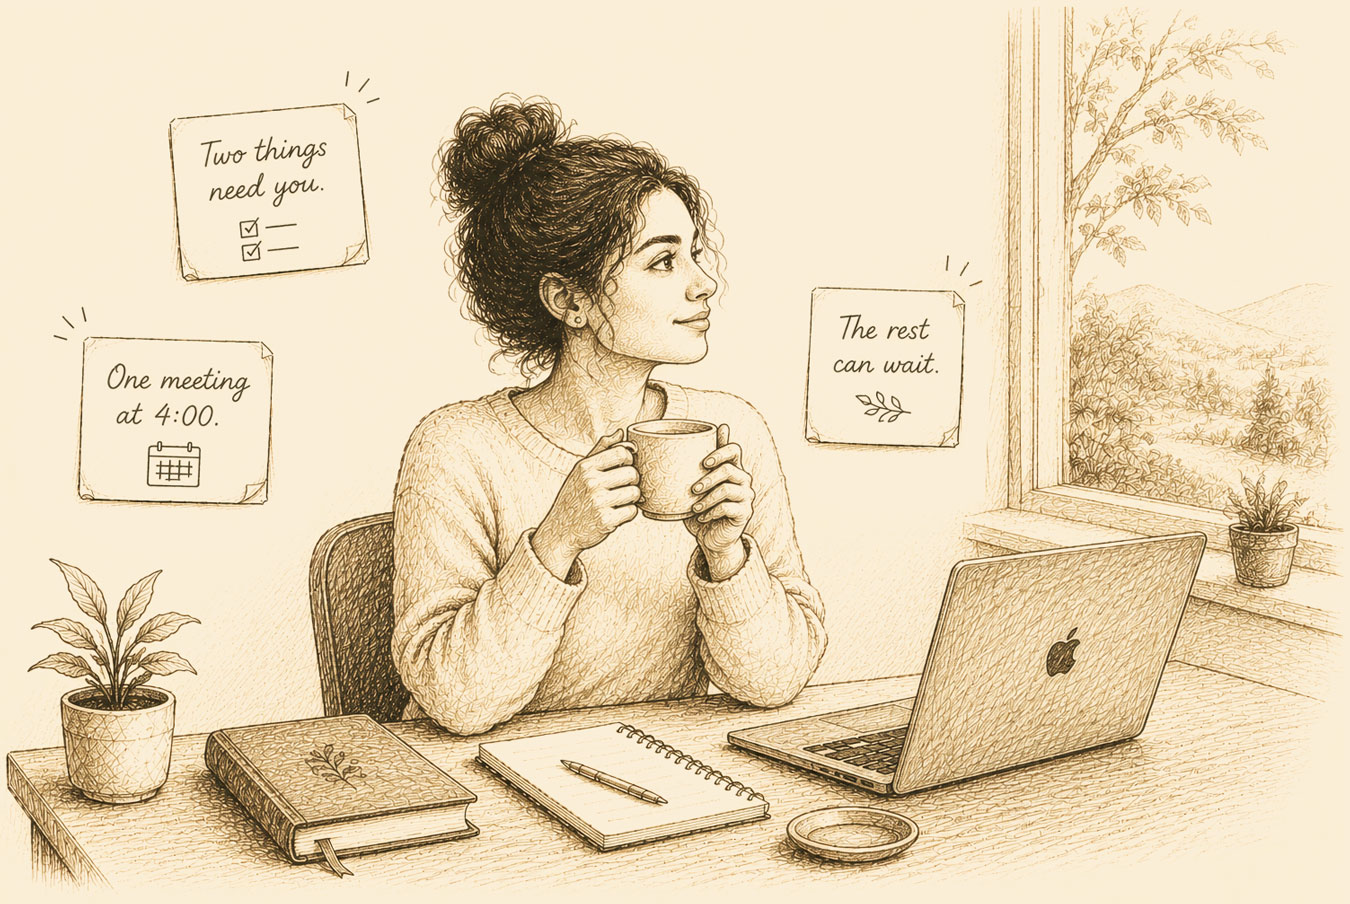
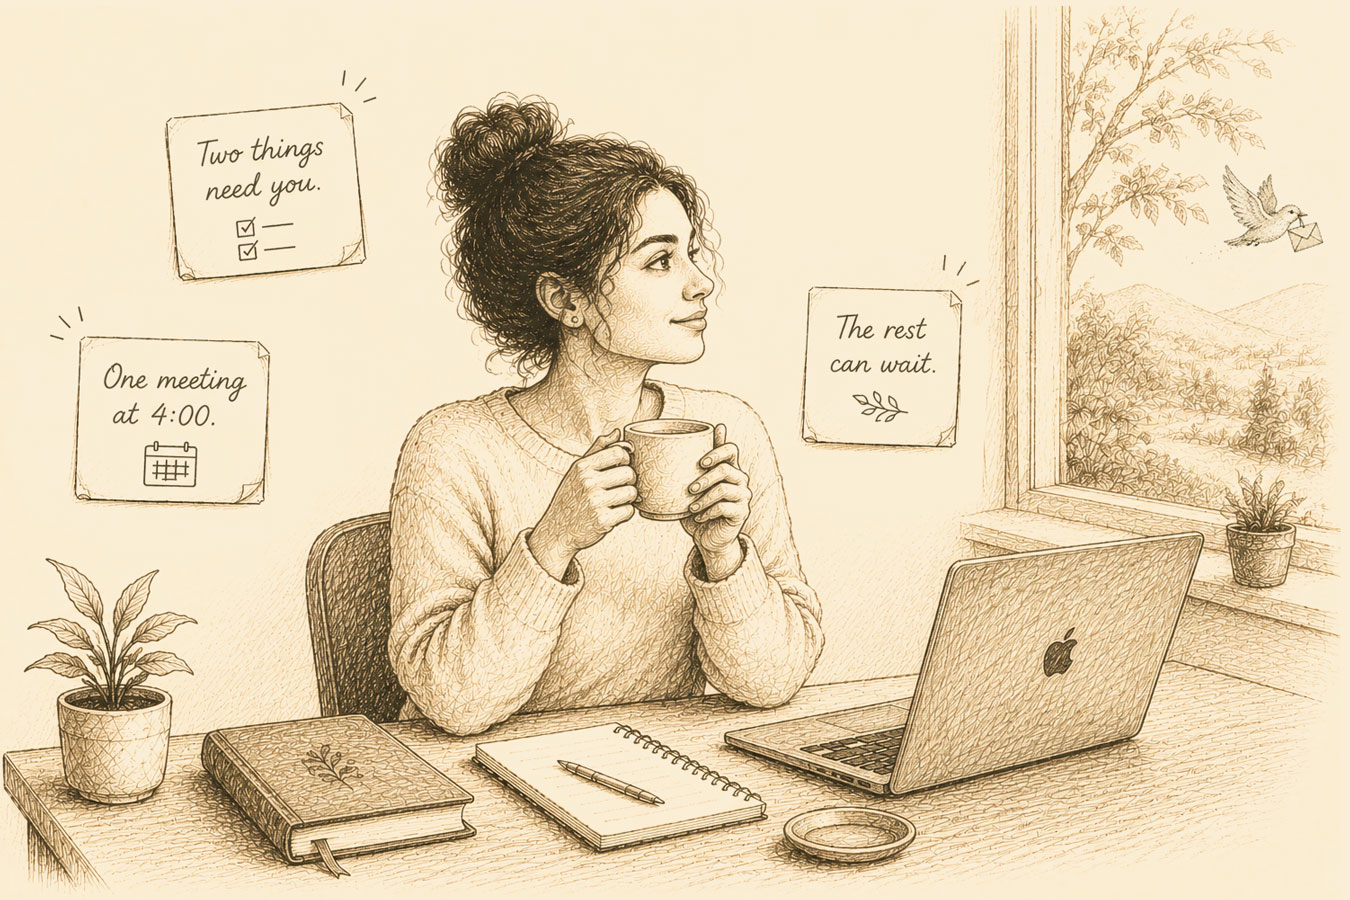
style: before/after scenes centered as composites; tighter above, roomier before Meet Signals

Changed region(s): [[0.0, 0.0, 0.9956, 0.9956], [0.0311, 0.3422, 0.2178, 0.56], [0.1244, 0.0933, 0.28, 0.3111]]

diff --git a/index.html b/index.html
@@ -63,12 +63,16 @@
       <!-- ── Before / After ───────────────────────────────────── -->
       <section class="beforeafter" aria-label="Before and after Lumeli">
         <div class="container ba-block">
-          <img class="ba-label fade-up" src="images/before.jpg" alt="Before Lumeli" width="451" height="289" />
-          <img class="ba-art fade-up" src="images/before_art.jpg" alt="" width="1350" height="912" />
+          <div class="ba-scene">
+            <img class="ba-label fade-up" src="images/before.jpg" alt="Before Lumeli" width="451" height="289" />
+            <img class="ba-art fade-up" src="images/before_art.jpg" alt="" width="1350" height="912" />
+          </div>
         </div>
         <div class="container ba-block">
-          <img class="ba-label fade-up" src="images/after.jpg" alt="After Lumeli" width="435" height="280" />
-          <img class="ba-art fade-up" src="images/after_art.jpg" alt="" width="1350" height="904" />
+          <div class="ba-scene">
+            <img class="ba-label fade-up" src="images/after.jpg" alt="After Lumeli" width="435" height="280" />
+            <img class="ba-art fade-up" src="images/after_art.jpg" alt="" width="1350" height="904" />
+          </div>
         </div>
       </section>
 

diff --git a/styles.css b/styles.css
@@ -254,23 +254,29 @@ section { padding: 96px 0; }
 }
 
 /* ── Before / After Lumeli ── */
-.beforeafter { padding: 48px 0 24px; }
+.beforeafter { padding: 0 0 120px; }
 .ba-block {
-  position: relative;
   display: flex; justify-content: center;
   margin-bottom: 96px;
 }
 .ba-block:last-child { margin-bottom: 0; }
-.ba-art { display: block; width: min(760px, 100%); height: auto; }
+/* the scene = art + overhanging label; shifted right by half the label's
+   overhang so the composite reads centered on the page */
+.ba-scene {
+  position: relative;
+  width: min(760px, 100%);
+  transform: translateX(55px);
+}
+.ba-art { display: block; width: 100%; height: auto; }
 .ba-label {
-  position: absolute; top: -8px; left: 8%;
+  position: absolute; top: -8px; left: -115px;
   width: clamp(160px, 18vw, 260px); height: auto;
   z-index: 1;
   transition-delay: 0.35s; /* the script label breathes in after the scene */
 }
-@media (max-width: 720px) {
+@media (max-width: 860px) {
+  .ba-scene { transform: none; }
   .ba-label { position: static; margin: 0 auto 18px; display: block; }
-  .ba-block { flex-direction: column; align-items: center; }
 }
 
 /* ── Showcase: intro copy left, Signals mockup right ── */
